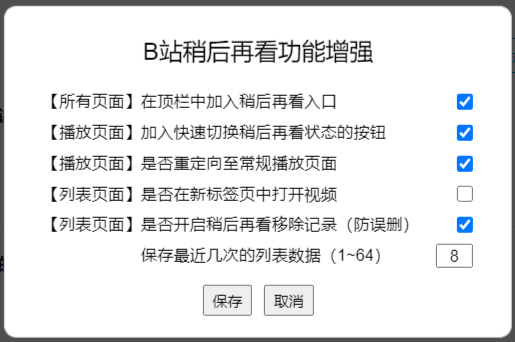
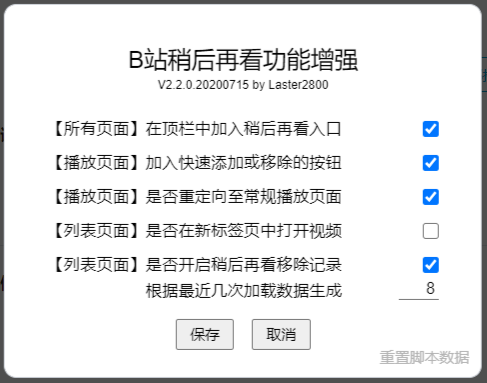
B站稍后再看增强
1. 修复部分情况下 removeHistoryData 没有重新设置 maxSize 的问题
2. 性能优化
3. UI 优化

diff --git a/BilibiliWatchlaterPlus/BilibiliWatchlaterPlus.js b/BilibiliWatchlaterPlus/BilibiliWatchlaterPlus.js
@@ -30,14 +30,14 @@
 
   // 用户配置读取
   var init = GM_getValue('gm395456')
-  var configUpdate = 20200714
+  var configUpdate = 20200715
   var headerButton = true
   var videoButton = true
   var redirect = false
   var openInNew = false
   var removeHistory = true
   var removeHistorySaves = defaultRemoveHistorySaves
-  var removeHistoryData = new PushQueue(defaultRemoveHistorySaves, rhsMax)
+  var removeHistoryData = null
   if (init >= configUpdate) {
     headerButton = GM_getValue('gm395456_headerButton')
     videoButton = GM_getValue('gm395456_videoButton')
@@ -49,6 +49,7 @@
     Object.setPrototypeOf(removeHistoryData, PushQueue.prototype) // 还原类型信息
   } else {
     init = false
+    removeHistoryData = new PushQueue(defaultRemoveHistorySaves, rhsMax)
     GM_setValue('gm395456_headerButton', headerButton)
     GM_setValue('gm395456_videoButton', videoButton)
     GM_setValue('gm395456_redirect', redirect)
@@ -90,7 +91,7 @@
     position: fixed;
     z-index: 10000;
 }
-#gm395456 .gm_setting .gm_settingPage {
+#gm395456 .gm_setting .gm_setting_page {
     position: fixed;
     top: 50%;
     left: 50%;
@@ -160,7 +161,7 @@
     position: fixed;
     z-index: 10000;
 }
-#gm395456 .gm_history .gm_historyPage {
+#gm395456 .gm_history .gm_history_page {
     position: fixed;
     top: 50%;
     left: 50%;
@@ -191,6 +192,11 @@
 }
 #gm395456 .gm_history .gm_content::-webkit-scrollbar {
     display: none;
+}
+.gm_comment span {
+    padding: 0 0.2em;
+    font-weight: bold;
+    color: #666666;
 }
 
 #gm395456 #gm_reset {
@@ -230,9 +236,7 @@
     cursor: pointer;
 }
 
-#gm395456 [disabled] {
-  cursor: not-allowed;
-}
+#gm395456 [disabled],
 #gm395456 [disabled] input {
   cursor: not-allowed;
 }
@@ -346,7 +350,7 @@
         menus.setting.el = el_setting
         el_setting.className = 'gm_setting'
         el_setting.innerHTML = `
-<div class="gm_settingPage">
+<div class="gm_setting_page">
     <div class="gm_title">
         <div id="gm_maintitle" onclick="window.open('${GM_info.script.homepage}')" title="${GM_info.script.homepage}">B站稍后再看功能增强</div>
         <div class="gm_subtitle">V${GM_info.script.version} by ${GM_info.script.author}</div>
@@ -430,6 +434,7 @@
           GM_setValue('gm395456_openInNew', openInNew)
           switchOpenInNew()
 
+          var resetMaxSize = removeHistory != el_removeHistory.checked
           removeHistory = el_removeHistory.checked
           GM_setValue('gm395456_removeHistory', removeHistory)
           if (removeHistory) {
@@ -440,9 +445,13 @@
               removeHistorySaves = rhsV
               GM_setValue('gm395456_removeHistorySaves', removeHistorySaves)
               GM_setValue('gm395456_removeHistoryData', removeHistoryData)
+            } else if (resetMaxSize) {
+              removeHistoryData.setMaxSize(rhsV)
+              GM_setValue('gm395456_removeHistoryData', removeHistoryData)
             }
-          } else {
+          } else if (resetMaxSize) {
             removeHistoryData.setMaxSize(0)
+            GM_setValue('gm395456_removeHistoryData', removeHistoryData)
           }
 
           closeMenuItem('setting')
@@ -492,16 +501,18 @@
         menus.history.el = el_history
         el_history.className = 'gm_history'
         el_history.innerHTML = `
-<div class="gm_historyPage">
+<div class="gm_history_page">
     <div class="gm_title">稍后再看移除记录</div>
-    <div class="gm_comment">根据最近${removeHistoryData.size}次打开列表页面时获取的数据生成。排序为加入到稍后再看的顺序，而非移除的顺序。如果处理时间较长，或记录太多难以定位误删的视频，请设置较小的历史范围。鼠标移动到内容区域可向下滚动翻页，点击对话框以外的位置退出。</div>
+    <div class="gm_comment">根据最近<span id="gm_save_times">X</span>次打开列表页面时获取到的<span id="gm_record_num">X</span>条记录生成，共筛选出<span id="gm_remove_num">X</span>条移除记录。排序为加入到稍后再看的顺序，而非移除的顺序。如果处理时间较长，或记录太多难以定位误删的视频，请设置较小的历史范围。鼠标移动到内容区域可向下滚动翻页，点击对话框以外的位置退出。</div>
     <div class="gm_content"></div>
 </div>
 <div class="gm_shadow"></div>
 `
-        var el_historyPage = el_history.querySelector('.gm_historyPage')
         var el_comment = el_history.querySelector('.gm_comment')
         var el_content = el_history.querySelector('.gm_content')
+        var el_saveTimes = el_history.querySelector('#gm_save_times')
+        var el_recordNum = el_history.querySelector('#gm_record_num')
+        var el_removeNum = el_history.querySelector('#gm_remove_num') 
 
         var setContentTop = () => {
           el_content.style.top = el_comment.offsetTop + el_comment.offsetHeight + 'px'
@@ -509,8 +520,8 @@
         window.addEventListener('resize', setContentTop)
 
         var openHandler = () => {
-          el_historyPage.scrollTop = 0
-          setContentTop()
+          el_content.scrollTop = 0
+          el_content.innerHTML = ''
           GM_xmlhttpRequest({
             method: 'GET',
             url: `https://api.bilibili.com/x/v2/history/toview/web?jsonp=jsonp`,
@@ -525,11 +536,13 @@
                   }
                   var map = new Map()
                   var removeData = removeHistoryData.toArray()
+                  el_saveTimes.innerText = removeData.length
                   for (var i = removeData.length - 1; i >= 0; i--) { // 后面的数据较旧，从后往前遍历
                     for (var record of removeData[i]) {
                       map.set(record.bvid, record)
                     }
                   }
+                  el_recordNum.innerText = map.size
                   for (var id of bvid) {
                     map.delete(id)
                   }
@@ -537,6 +550,9 @@
                   for (var rm of map.values()) {
                     result.push(`<span>${rm.title}</span><br><a href="https://www.bilibili.com/video/${rm.bvid}" target="_blank">${rm.bvid}</a>`)
                   }
+                  el_removeNum.innerText = result.length
+
+                  setContentTop() // 在设置内容前设置好 top，这样看不出修改的痕迹
                   el_content.innerHTML = result.join('<br><br>')
                 } catch (e) {
                   console.error('网络连接错误，请联系脚本作者( https://greasyfork.org/zh-CN/scripts/383441/feedback )：\n' + e)
@@ -964,6 +980,6 @@ PushQueue.prototype.gc = function() {
       }
     }
   } else {
-    this.data = []
+    this.data = new Array(this.capacity)
   }
 }
